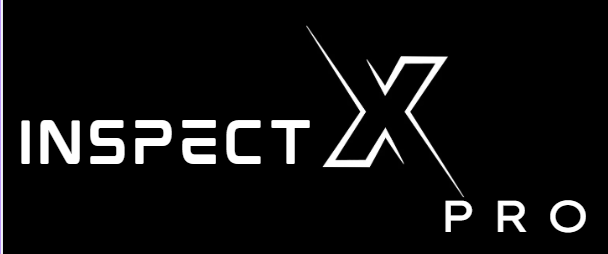
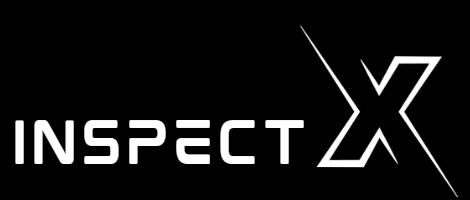
img crt

diff --git a/src/pages/Services.jsx b/src/pages/Services.jsx
@@ -82,6 +82,18 @@ const services = [
       "Thermal and acoustic anomaly detection",
       "3D mapping of water infrastructure"
     ]
+  },
+  {
+    icon: <FaWater size={30} />,
+    title: "Water Line Inspection",
+    description: "Advanced inspection of underground and on-ground water pipelines using non-invasive technologies and AI analytics.",
+    slides: [slide3, slide2, slide1],
+    features: [
+      "Leak detection and localization",
+      "Ground penetrating radar for underground inspection",
+      "Thermal and acoustic anomaly detection",
+      "3D mapping of water infrastructure"
+    ]
   }
 ];
 

diff --git a/src/components/Footer.jsx b/src/components/Footer.jsx
@@ -66,7 +66,7 @@ const Footer = () => {
       </div>
       
       <div className="max-w-7xl mx-auto pt-8 mt-8 border-t border-gray-700 text-center text-gray-400">
-        <p>&copy; {currentYear} INSPECTX Pro. All rights reserved.</p>
+        <p>&copy; {currentYear} INSPECTX. All rights reserved.</p>
       </div>
     </footer>
   );
